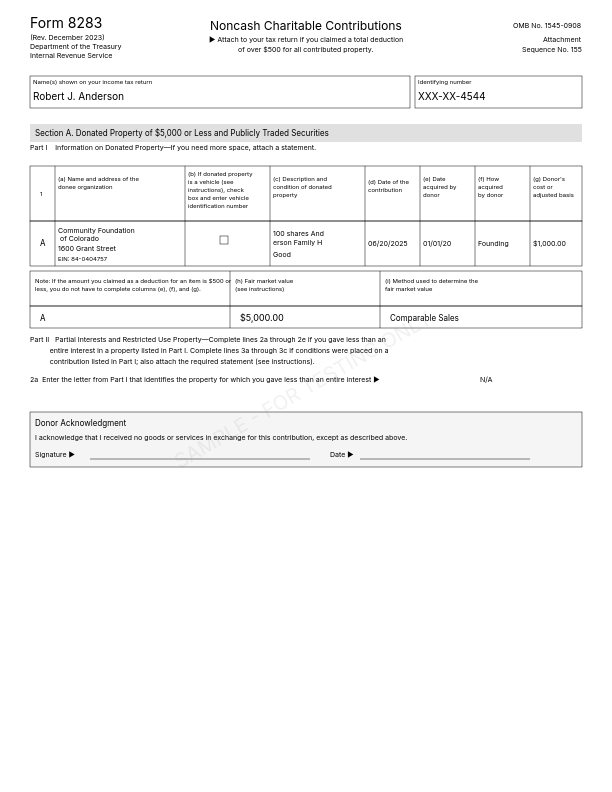
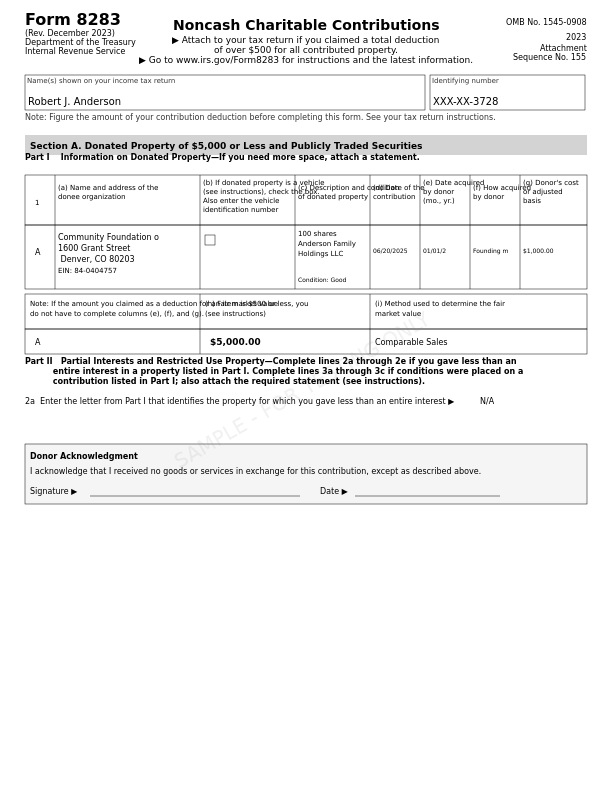
fix(DM-599): correct closely-held stock OCR fixtures

Changed region(s): [[0.031, 0.0, 0.9624, 0.6364], [0.9314, 0.5152, 0.9624, 0.6364]]

diff --git a/scripts/generate_from_donations_v2.js b/scripts/generate_from_donations_v2.js
@@ -5,6 +5,7 @@
  */
 
 const { createCanvas, registerFont } = require('canvas');
+const { createHash } = require('crypto');
 const fs = require('fs');
 const path = require('path');
 
@@ -32,6 +33,19 @@ function parseFilter(value) {
 function shouldGenerateImage(donation, formType) {
     return (!onlyDonationIds || onlyDonationIds.has(donation.id)) &&
         (!onlyFormTypes || onlyFormTypes.has(formType));
+}
+
+function maskedTaxpayerId(donation) {
+    const donorKey = [
+        donation.donor?.name,
+        donation.donor?.address,
+        donation.donor?.city,
+        donation.donor?.state,
+        donation.donor?.zip
+    ].filter(Boolean).join('|');
+    const digest = createHash('sha256').update(donorKey).digest();
+    const suffix = (digest.readUInt32BE(0) % 10000).toString().padStart(4, '0');
+    return `XXX-XX-${suffix}`;
 }
 
 function parseFixtureDate(dateStr) {
@@ -164,7 +178,7 @@ function generateForm8283A(donation) {
     
     // Name and identifying number boxes
     drawBox(ctx, 25, y, 400, 35, 'Name(s) shown on your income tax return', donation.donor.name);
-    drawBox(ctx, 430, y, 155, 35, 'Identifying number', 'XXX-XX-' + Math.floor(1000 + Math.random() * 9000));
+    drawBox(ctx, 430, y, 155, 35, 'Identifying number', maskedTaxpayerId(donation));
     
     y += 45;
     
@@ -251,23 +265,26 @@ function generateForm8283A(donation) {
     
     y += 50;
     
-    // Data row
-    ctx.strokeRect(25, y, width - 50, 55);
+    // D023 needs an expanded row so its full private-company description is
+    // visible. Preserve the established rendering for every other fixture.
+    const usesExpandedDescriptionRow = donation.id === 'D023';
+    const dataRowHeight = usesExpandedDescriptionRow ? 64 : 55;
+    ctx.strokeRect(25, y, width - 50, dataRowHeight);
     ctx.beginPath();
     ctx.moveTo(55, y);
-    ctx.lineTo(55, y + 55);
+    ctx.lineTo(55, y + dataRowHeight);
     ctx.moveTo(200, y);
-    ctx.lineTo(200, y + 55);
+    ctx.lineTo(200, y + dataRowHeight);
     ctx.moveTo(295, y);
-    ctx.lineTo(295, y + 55);
+    ctx.lineTo(295, y + dataRowHeight);
     ctx.moveTo(370, y);
-    ctx.lineTo(370, y + 55);
+    ctx.lineTo(370, y + dataRowHeight);
     ctx.moveTo(420, y);
-    ctx.lineTo(420, y + 55);
+    ctx.lineTo(420, y + dataRowHeight);
     ctx.moveTo(470, y);
-    ctx.lineTo(470, y + 55);
+    ctx.lineTo(470, y + dataRowHeight);
     ctx.moveTo(520, y);
-    ctx.lineTo(520, y + 55);
+    ctx.lineTo(520, y + dataRowHeight);
     ctx.stroke();
     
     // Fill data
@@ -286,11 +303,21 @@ function generateForm8283A(donation) {
     drawCheckbox(ctx, 205, y + 10, false, '');
     
     // Description
-    ctx.font = '8px Inter';
     const desc = donation.assetDescription || '';
-    ctx.fillText(desc.substring(0, 18), 298, y + 20);
-    if (desc.length > 18) ctx.fillText(desc.substring(18, 36), 298, y + 32);
-    ctx.fillText(donation.assetCondition || 'Good', 298, y + 44);
+    if (usesExpandedDescriptionRow) {
+        ctx.font = '7px Inter';
+        const descriptionLines = wrapText(ctx, desc, 68);
+        descriptionLines.slice(0, 4).forEach((line, index) => {
+            ctx.fillText(line, 298, y + 11 + index * 10);
+        });
+        ctx.font = '6px Inter';
+        ctx.fillText(`Condition: ${donation.assetCondition || 'Good'}`, 298, y + 57);
+    } else {
+        ctx.font = '8px Inter';
+        ctx.fillText(desc.substring(0, 18), 298, y + 20);
+        if (desc.length > 18) ctx.fillText(desc.substring(18, 36), 298, y + 32);
+        ctx.fillText(donation.assetCondition || 'Good', 298, y + 44);
+    }
     
     // Dates and values
     ctx.fillText(formatDateShort(donation.contributionDate), 373, y + 28);
@@ -298,7 +325,7 @@ function generateForm8283A(donation) {
     ctx.fillText((donation.howAcquired || 'Purchase').substring(0, 10), 473, y + 28);
     ctx.fillText(donation.costBasis ? formatMoney(donation.costBasis) : 'N/A', 523, y + 28);
     
-    y += 60;
+    y += dataRowHeight + 5;
     
     // Second header row for (h) and (i)
     ctx.strokeRect(25, y, width - 50, 35);
@@ -417,7 +444,7 @@ function generateForm8283B(donation) {
     
     // Name boxes
     drawBox(ctx, 25, y, 400, 30, 'Name(s) shown on your income tax return', donation.donor.name);
-    drawBox(ctx, 430, y, 155, 30, 'Identifying number', 'XXX-XX-' + Math.floor(1000 + Math.random() * 9000));
+    drawBox(ctx, 430, y, 155, 30, 'Identifying number', maskedTaxpayerId(donation));
     
     y += 40;
     
@@ -678,7 +705,7 @@ function generateForm1098C(donation) {
     ctx.font = '7px Inter';
     ctx.fillText("DONOR'S TIN", 450, y + 10);
     ctx.font = '10px Inter';
-    ctx.fillText('XXX-XX-' + Math.floor(1000 + Math.random() * 9000), 450, y + 24);
+    ctx.fillText(maskedTaxpayerId(donation), 450, y + 24);
     
     y += 35;
     
@@ -860,6 +887,26 @@ async function main() {
         form_8283_section_b: generateForm8283B,
         form_1098c: generateForm1098C
     };
+
+    // A targeted run owns the selected donation's supported form outputs. If a
+    // fixture changes form type, remove the superseded image as part of the same
+    // reproducible command instead of requiring a manual cleanup step.
+    if (onlyDonationIds) {
+        for (const donation of donationsData.donations) {
+            if (!onlyDonationIds.has(donation.id)) continue;
+            for (const formType of forms) {
+                if (onlyFormTypes && !onlyFormTypes.has(formType)) continue;
+                if (donation.forms.includes(formType)) continue;
+
+                const filename = `${formType}_${donation.id}.png`;
+                const filepath = path.join(OUTPUT_DIR, formType, filename);
+                if (fs.existsSync(filepath)) {
+                    fs.unlinkSync(filepath);
+                    console.log(`✓ Removed superseded ${formType}/${filename}`);
+                }
+            }
+        }
+    }
     
     for (const donation of donationsData.donations) {
         for (const formType of donation.forms) {

diff --git a/README.md b/README.md
@@ -10,13 +10,13 @@ This repository contains programmatically generated donation-related documents f
 
 | Form Type | Count | Description |
 |-----------|-------|-------------|
-| acknowledgment_letter | 13 | Written acknowledgments for cash ≥$250 and non-cash donations |
+| acknowledgment_letter | 19 | Written acknowledgments for cash ≥$250 and non-cash donations |
 | appraisal | 6 | Qualified appraisals for donations >$5,000 |
 | bank_statement | 1 | Bank records for cash donations <$250 |
 | cancelled_check | 1 | Cancelled checks for cash donations <$250 |
-| form_1098c | 3 | Vehicle donations >$500 |
-| form_8283_section_a | 5 | Non-cash donations $501-$5,000 |
-| form_8283_section_b | 6 | Non-cash donations >$5,000, closely-held >$10,000, real estate |
+| form_1098c | 13 | Vehicle donations >$500 |
+| form_8283_section_a | 4 | Non-cash donations $501-$5,000 |
+| form_8283_section_b | 7 | Non-cash donations >$5,000, including closely-held stock and real estate |
 | receipt | 4 | Non-cash donation receipts <$500 |
 | stock_confirmation | 3 | Publicly traded securities transfers |
 | gofundme_receipt | 3 | **Non-deductible** crowdfunding (GoFundMe personal fundraiser) payment confirmations |
@@ -124,7 +124,7 @@ The `donations.json` file defines 37 test donations covering all IRS thresholds:
 | ID | Amount | Forms | Notes |
 |----|--------|-------|-------|
 | D023 | $5,000 | form_8283_section_a | |
-| D024 | **$10,000** | form_8283_section_a | **Boundary** |
+| D024 | **$10,000** | form_8283_section_b | **No-appraisal boundary** |
 | D025 | **$10,001** | form_8283_section_b, appraisal | **Boundary** |
 | D026 | $50,000 | form_8283_section_b, appraisal | |
 
@@ -191,6 +191,9 @@ node scripts/generate_from_donations.js
 
 # Regenerate selected documents while still recomputing manifest_v2.json
 ONLY_DONATIONS=D029,D030 ONLY_FORMS=acknowledgment_letter node scripts/generate_from_donations.js
+
+# Regenerate the corrected D023/D024 IRS fixtures and remove superseded outputs
+ONLY_DONATIONS=D023,D024 node scripts/generate_from_donations_v2.js
 ```
 
 ## IRS Documentation Requirements
@@ -210,7 +213,8 @@ Quick reference:
 | Vehicle | ≤$500 | Acknowledgment |
 | Vehicle | >$500 | Form 1098-C |
 | Public stock | Any | Brokerage confirmation |
-| Closely-held | ≤$10,000 | Form 8283-A |
+| Closely-held | $501-$5,000 | Form 8283-A |
+| Closely-held | $5,001-$10,000 | Form 8283-B without appraisal |
 | Closely-held | >$10,000 | Form 8283-B + appraisal |
 | Real estate | >$5,000 | Form 8283-B + appraisal |
 

diff --git a/IRS_FORMS_README.md b/IRS_FORMS_README.md
@@ -25,7 +25,9 @@ This document describes the IRS-compliant form test fixtures generated based on 
 ### Stocks & Securities
 | Type | Amount | Required Documentation |
 |------|--------|----------------------|
-| Publicly Traded | Any | Brokerage confirmation (no appraisal) |
+| Publicly Traded | Any | Brokerage confirmation (no qualified appraisal) |
+| Closely-Held | $501-$5,000 | Form 8283 Section A |
+| Closely-Held | $5,001-$10,000 | Form 8283 Section B without a qualified appraisal |
 | Closely-Held | > $10,000 | Form 8283 Section B + Qualified Appraisal |
 
 ### Real Estate
@@ -37,14 +39,13 @@ This document describes the IRS-compliant form test fixtures generated based on 
 
 | Form Type | Count | Directory | Description |
 |-----------|-------|-----------|-------------|
-| Form 8283 Section A | 10 | `documents/form_8283/` | Non-cash donations $500-$5,000 |
-| Form 8283 Section B | 10 | `documents/form_8283/` | Non-cash donations >$5,000 |
-| Form 1098-C | 10 | `documents/form_1098c/` | Vehicle donations >$500 |
-| Qualified Appraisal | 10 | `documents/appraisals/` | For non-cash >$5,000 |
-| Acknowledgment (Cash) | 15 | `documents/acknowledgment_letters/` | Cash donations ≥$250 |
-| Acknowledgment (Non-Cash) | 10 | `documents/acknowledgment_letters/` | Non-cash donations with charity letter |
+| Form 8283 Section A | 4 | `documents/form_8283_section_a/` | Non-cash donations $501-$5,000 |
+| Form 8283 Section B | 7 | `documents/form_8283_section_b/` | Non-cash donations >$5,000 |
+| Form 1098-C | 13 | `documents/form_1098c/` | Vehicle donations >$500 |
+| Qualified Appraisal | 6 | `documents/appraisal/` | Category-specific high-value non-cash donations |
+| Acknowledgment | 19 | `documents/acknowledgment_letter/` | Cash and non-cash charity acknowledgments |
 
-**Total: 65 IRS form documents**
+**Total: 49 IRS form documents**
 
 ## Form Details
 
@@ -126,8 +127,8 @@ The `manifest_irs_forms.json` file contains metadata for each generated document
 # Install dependencies
 npm install
 
-# Generate IRS forms
-node scripts/generate_irs_forms.js
+# Regenerate the corrected D023/D024 IRS fixtures and clean stale form outputs
+ONLY_DONATIONS=D023,D024 node scripts/generate_from_donations_v2.js
 ```
 
 ## Important Notes
